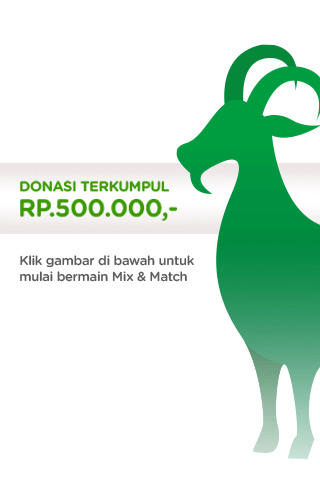
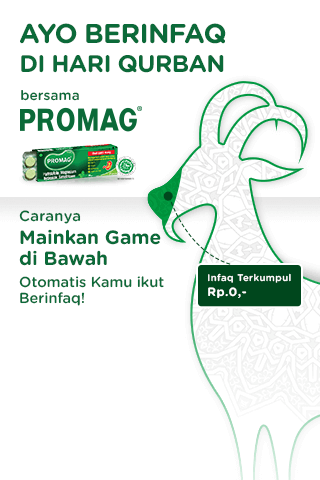
upgrade add events

diff --git a/src/main.js b/src/main.js
@@ -1,6 +1,6 @@
 /* eslint-disable max-len */
 /* global window */
-import Mads from 'mads-custom';
+import Mads, { fadeOutIn } from 'mads-custom';
 import './main.css';
 
 const getDuplicates = (arr) => {
@@ -37,15 +37,27 @@ class AdUnit extends Mads {
 
   render() {
     Object.keys(this.data).forEach((key) => {
-      this.data[key] = this.data[key].indexOf('.png') > -1 ? this.data[key].replace(/\s/g, '%20') : this.data[key];
+      this.data[key] = typeof this.data[key] === 'string' && this.data[key].indexOf('.png') > -1 ? this.data[key].replace(/\s/g, '%20') : this.data[key];
     });
 
     return `
       <div class="container" id="ad-container">
         <div id="page1" class="page">
-          <img src="${this.data.ayoDonasi}" title="ayo-donasi" id="ayoDonasi" />
-          <img src="${this.data.mainGamenya}" title="main-gamenya" id="mainGamenya" />
           <div id="mixMatchContainer"></div>
+        </div>
+        <div id="page2" class="page" style="display: none;">
+          <form id="questionaire" class="form">
+            <input type="text" placeholder="Nama *" required id="inputName">
+            <input type="email" placeholder="Email *" required id="inputEmail">
+            <input type="image" src="${this.data.btnSubmitImage}">
+          </form>
+        </div>
+        <div id="page3" class="page" style="display: none;">
+          <div id="social">
+            <img src="${this.data.twit}" id="btnTwitter">
+            <img src="${this.data.fb}" id="btnFacebook">
+          </div>
+          <img src="${this.data.btnSubmitImage}" id="btnInfo">
         </div>
       </div>
     `;
@@ -60,14 +72,67 @@ class AdUnit extends Mads {
       #page1 {
         background: url(${this.data.bg1});
       }
+      #page2 {
+        background: url(${this.data.bg2});
+      }
+      #page3 {
+        background: url(${this.data.bg3});
+      }
       `];
   }
 
   events() {
-    setTimeout(() => {
-      this.elems.ayoDonasi.className = 'blur-out';
-      this.elems.mainGamenya.className = 'blur-in';
-    }, 1000);
+    let submitting = false;
+    this.elems.questionaire.addEventListener('submit', (e) => {
+      e.stopPropagation();
+      e.preventDefault();
+      if (submitting) return;
+      submitting = true;
+      const inputs = [];
+      const elements = this.leadData.leadGenEle.elements;
+      let ele = '';
+      const trackId = this.leadData.leadGenEle.leadGenTrackID;
+      const userId = this.data.userId || 0;
+      const studioId = this.data.studioId || 0;
+      const referredURL = encodeURIComponent(this.lead_tags || window.location.href);
+      elements.forEach((element, index) => {
+        inputs.push(this.elems[element.ele_id].value);
+        ele += `{"fieldname":"${element.ele_name}","value":"${inputs[inputs.length - 1]}"}`;
+        if (index !== elements.length - 1) {
+          ele += ',';
+        }
+      });
+
+      ele = encodeURIComponent(ele);
+
+      const url = `https://www.mobileads.com/api/save_lf?contactEmail=${this.data.emails}&gotDatas=1&element=${ele}&user-id=${userId}&studio-id=${studioId}&tab-id=1&trackid=${trackId}&referredURL=${referredURL}&callback=leadGenCallback`;
+      window.leadGenCallback = () => {
+        console.log('leadgen callback called');
+      };
+      this.tracker('E', 'submit');
+      this.loadJS(url).then(() => {
+        console.log('done submission leadgen');
+        fadeOutIn(this.elems.page2, this.elems.page3, {
+          display: 'block',
+        });
+      });
+    });
+    this.elems.btnFacebook.addEventListener('mousedown', () => {
+      this.tracker('E', 'facebook');
+      const url = encodeURIComponent('http://google.com/');
+      this.linkOpener(`https://www.facebook.com/sharer/sharer.php?u=${url}`);
+    });
+    this.elems.btnTwitter.addEventListener('mousedown', () => {
+      this.tracker('E', 'twitter');
+      const referrer = encodeURIComponent('http://google.com/');
+      const msg = encodeURIComponent('message');
+      const url = encodeURIComponent('http://google.com/');
+      this.linkOpener(`https://twitter.com/intent/tweet?text=${msg}&original_referrer=${referrer}&url=${url}&tw_p=tweetbutton&via=google`);
+    });
+    this.elems.btnInfo.addEventListener('mousedown', () => {
+      this.tracker('E', 'info');
+      this.linkOpener('http://google.com');
+    });
   }
 
   initMixMatch(opts) {
@@ -119,6 +184,9 @@ class AdUnit extends Mads {
 
           this.opened.push(card);
 
+          this.match = 4;
+          this.opened.push(card);
+
           if (this.opened.length === 2 && this.opened[0].className !== this.opened[1].className) {
             this.disableAll = true;
             setTimeout(() => {
@@ -134,7 +202,11 @@ class AdUnit extends Mads {
             this.match += 1;
 
             if (this.match >= 4) {
-              // done
+              setTimeout(() => {
+                fadeOutIn(this.elems.page1, this.elems.page2, {
+                  display: 'block',
+                });
+              }, 2000);
             }
           }
 

diff --git a/src/main.css b/src/main.css
@@ -1,44 +1,57 @@
 #rma-widget, #ad-container {
-    width: 320px;
-    height: 480px;
+  width: 320px;
+  height: 480px;
 }
 
 #ad-container {
   position: absolute;
 }
 
-#ayoDonasi {
-  position: absolute;
-  top: 0;
-  left: 0;
-}
-
-#ayoDonasi.blur-out {
-  filter: blur(8px);
-  visibility: hidden;
-  opacity: 0;
-  transition: all 1s ease-out;
-}
-
-#mainGamenya {
-  position: absolute;
-  top: 20px;
-  left: 5px;
-  opacity: 0;
-  visibility: hidden;
-  filter: blur(8px);
-  transition: all 0.8s ease-in;
-}
-
-#mainGamenya.blur-in {
-  filter: blur(0px);
-  opacity: 1;
-  visibility: visible;
-}
-
 #mixMatchContainer {
   position: absolute;
-  top: 295px;
+  top: 315px;
+}
+
+#questionaire {
+  position: absolute;
+  width: 320px;
+  text-align: center;
+  bottom: 25px;
+}
+
+#social {
+  position: absolute;
+  bottom: 10px;
+  left: 32px;
+}
+
+#btnInfo {
+  position: absolute;
+  bottom: 24px;
+  right: 18px;
+}
+
+.form input {
+  display: block;
+  margin: 0 auto 15px;
+  outline: none;
+}
+
+.form input:focus {
+  box-shadow: none;
+}
+
+.form input[type="text"], .form input[type="email"] {
+  width: 250px;
+  padding: 10px;
+  text-align: center;
+  font-size: 1em;
+  border: 1px solid #028639;
+  border-radius: 5px;
+}
+
+::placeholder {
+  color: #028639;
 }
 
 .container {
@@ -53,9 +66,35 @@
 }
 
 .card {
-  position: absolute; margin:0; display: block; transform-style: preserve-3d;transition: transform 0.6s;
+  position: absolute;
+  margin: 0;
+  display: block;
+  transform-style: preserve-3d;
+  transition: transform 0.6s;
 }
 
 .card img {
-  -webkit-backface-visibility:hidden;backface-visibility:hidden;position:absolute;
+  -webkit-backface-visibility: hidden;
+  backface-visibility: hidden;
+  position: absolute;
+}
+
+.blur-out {
+  filter: blur(8px);
+  visibility: hidden;
+  opacity: 0;
+  transition: all 1s ease-out;
+}
+
+.blurring {
+  opacity: 0;
+  visibility: hidden;
+  filter: blur(8px);
+  transition: all 0.8s ease-in;
+}
+
+.blur-in {
+  filter: blur(0px);
+  opacity: 1;
+  visibility: visible;
 }
